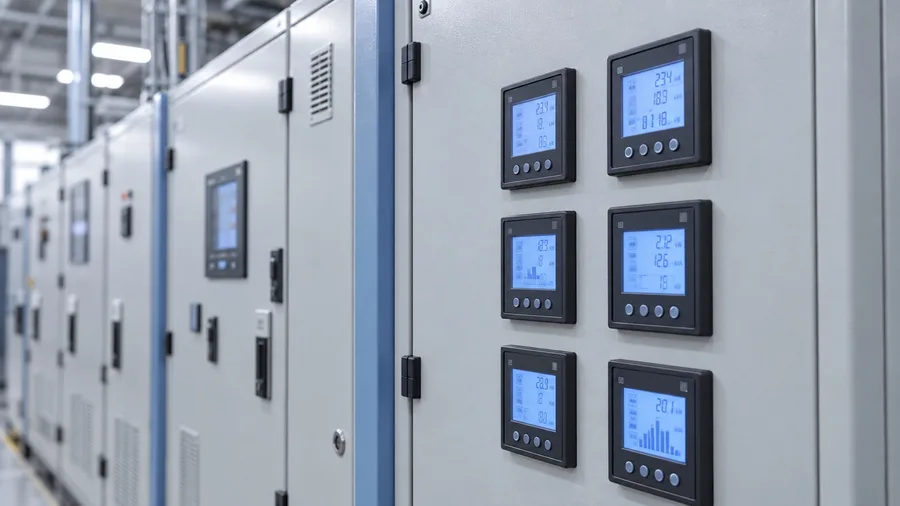
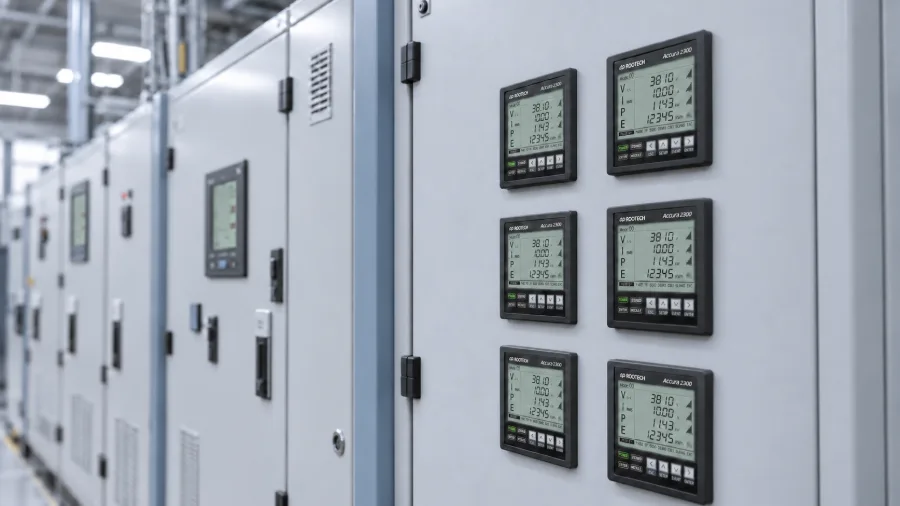
design: 전력관리 사진을 계측기가 보이는 수배전반으로 바꾼다
앞 사진과 같은 장면이되 계측기 면이 새로 그려진 판이다. 쓰이는 자리 다섯
군데를 한 원본에서 다시 뽑았다 — 유즈케이스 히어로 · 관련 과제 카드 ·
메인 과제별 카드 세 폭.

원본은 1672x941 이라 히어로도 그 크기로 둔다. 2560 으로 늘려 봐야 없는
디테일이 생기지 않고 파일만 커진다. 비율은 1.7768 로 2560x1440(1.7778)과
0.06% 차이라 cover 배치가 달라지지 않는다. 데이터의 width·height 도 국문
영문 함께 1672x941 로 고쳤다.

모두 q82.
  heroes/power-management          89,602 → 62,212 B (2560x1440 → 1672x941)
  cards/power-management           40,258 → 42,352 B
  cards/sized/power-management-1400  45,930 → 47,222 B
  cards/sized/power-management-900   24,368 → 27,408 B
  cards/sized/power-management-480   10,824 → 11,612 B

원본 PNG 는 .gitignore 에 있는 이미지/ 로 옮겼다.

diff --git a/src/data/usecases/en.ts b/src/data/usecases/en.ts
@@ -141,8 +141,8 @@ export const useCasesEn: UseCase[] = [
     heroImage: {
       src: '/use-cases/heroes/power-management.webp',
       alt: '',
-      width: 2560,
-      height: 1440,
+      width: 1672,
+      height: 941,
     },
     heroImageAsBackground: true,
     heroTitle: 'When, where and how much you use is identified,<br>cutting power cost and risk',

diff --git a/src/data/usecases/index.ts b/src/data/usecases/index.ts
@@ -131,8 +131,8 @@ export const useCases: UseCase[] = [
     heroImage: {
       src: '/use-cases/heroes/power-management.webp',
       alt: '',
-      width: 2560,
-      height: 1440,
+      width: 1672,
+      height: 941,
     },
     ctaBackgroundImage: '/use-cases/cta-bg.webp',
     signalsAsCards: true,
